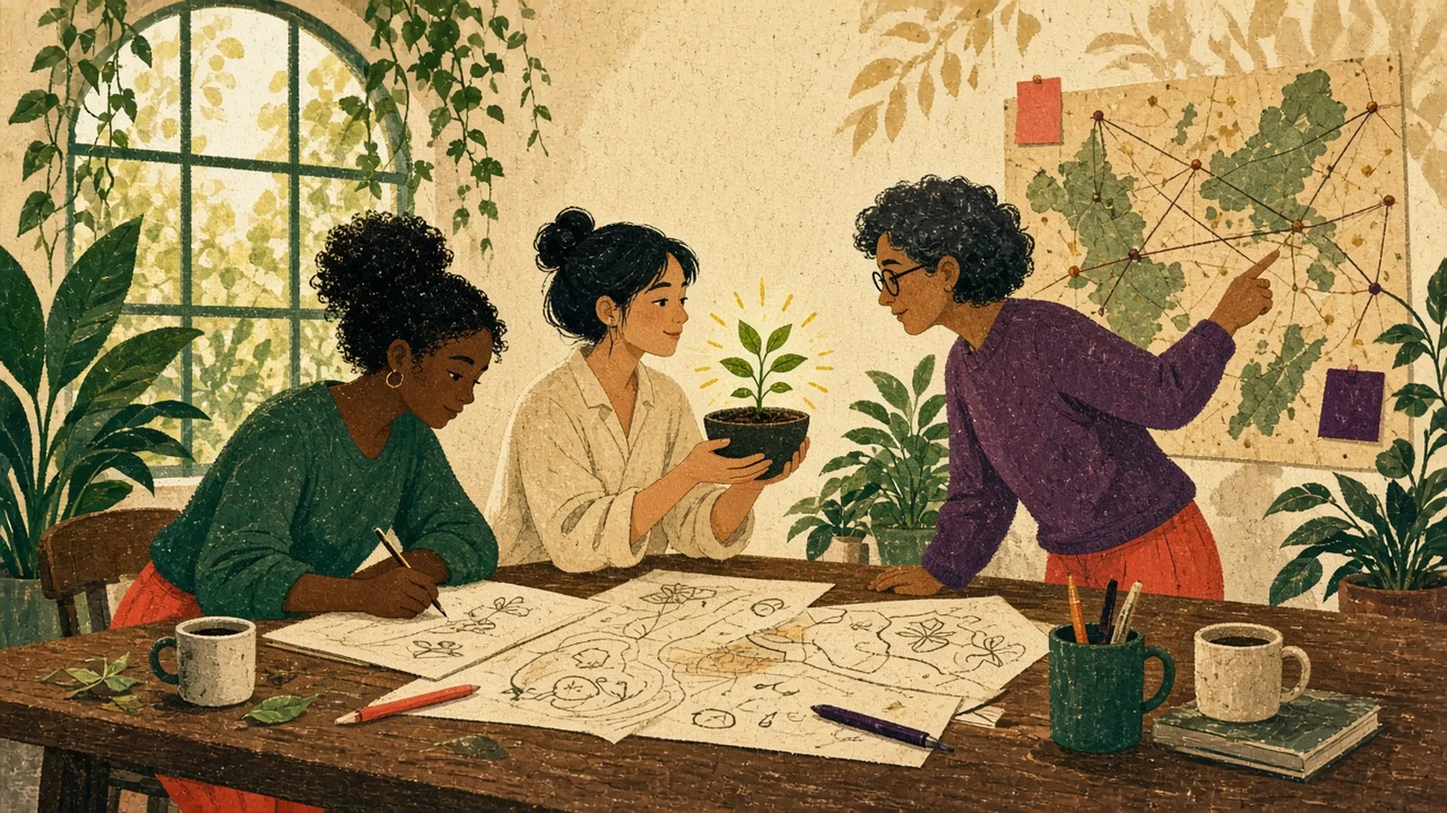
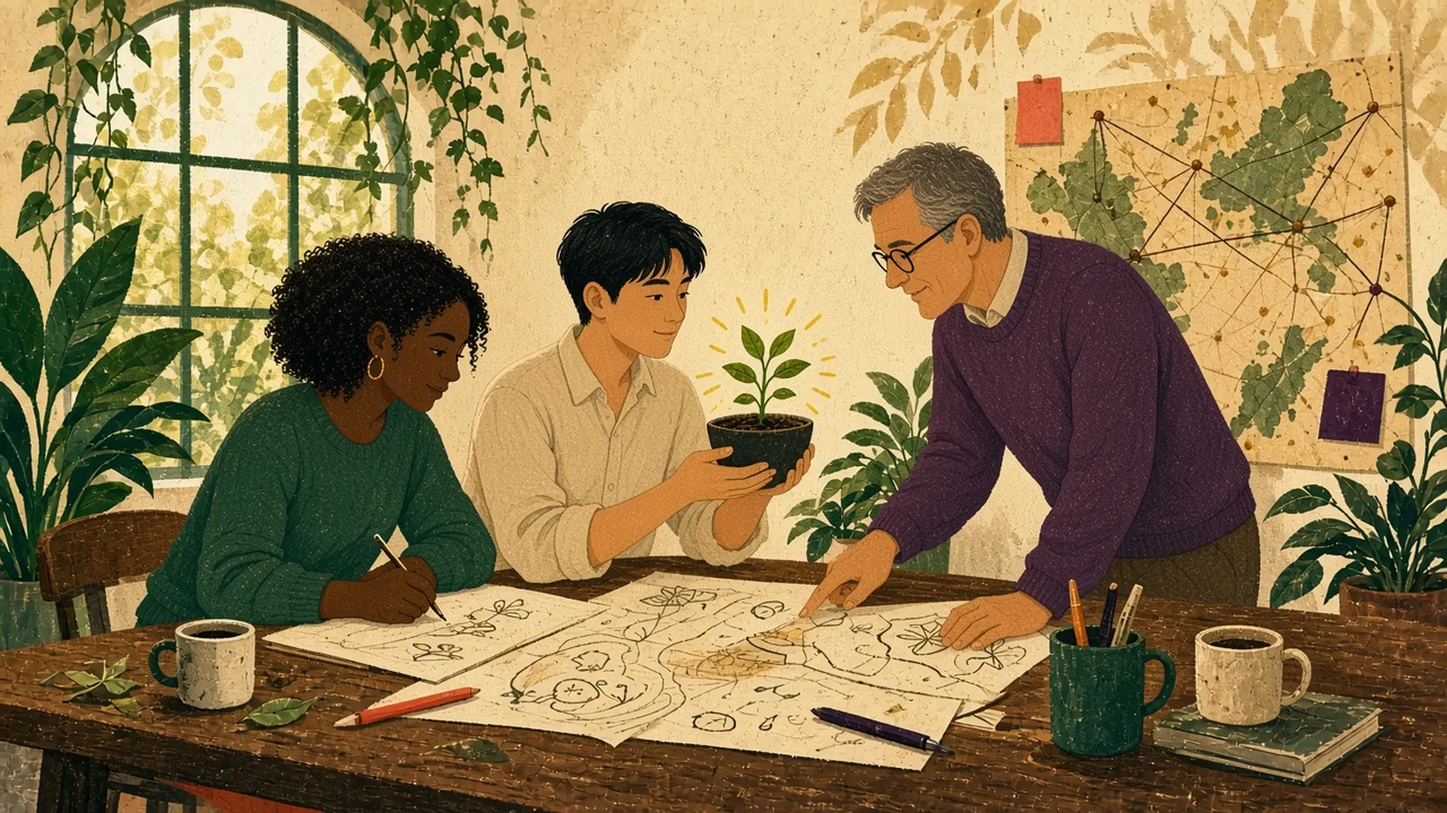
Scenes: mixed men and women in hero, team talk and founders art

diff --git a/team.html b/team.html
@@ -7,8 +7,8 @@
 <button class="burger" aria-label="Menu" aria-expanded="false"><i></i><i></i></button></header>
 <div class="overlay" role="dialog" aria-label="Menu"><img class="ologo" src="assets/brand/pfg-logo-cream.png" alt="Partners for Growth" width="720" height="233"><a href="index.html">Home</a><a href="who-we-are.html">Who we are</a><a href="growth-debt.html">What we do</a><a href="portfolio.html">Portfolio</a><a href="team.html">Team</a><a href="connect.html">Connect</a></div>
 <main><section class="phero"><div class="wrap fx"><span class="label">Our team</span><h1 class="big">Specialists embedded in tech hubs around the world.</h1><p style=max-width:52ch>We live in the ecosystems we finance, so you are matched with a PFG partner who knows your industry and your region.</p></div></section>
-<section class="pad"  data-dark=1><div class="art"><img src="assets/img/team-talk.webp" alt="Illustration: a team talking around a table in a leafy courtyard" loading="lazy"></div><div class="panel pv-plum sec"><div class="wrap"><p class="small fx" style="margin-bottom:40px;opacity:.75">31 people, listed in the order shown on PFG's team page.</p><p class="small fx" style="margin:-24px 0 40px"><button type="button" id="portraitToggle" aria-pressed="false" style="font:inherit;color:inherit;background:transparent;border:1px solid currentColor;border-radius:999px;padding:8px 16px;cursor:pointer;opacity:.85">Show photos</button></p><div class="team"><div class="person fx"><div class="portrait photo"><img src="assets/team-illustrated/andy-hudson.webp" data-photo="assets/team/andy-hudson.webp" data-ill="assets/team-illustrated/andy-hudson.webp" alt="Andy Hudson" width="360" height="360" loading="lazy"></div><div><h3>Andy Hudson</h3><p>Investment Director</p></div></div><div class="person fx"><div class="portrait photo"><img src="assets/team-illustrated/andrew-kahn.webp" data-photo="assets/team/andrew-kahn.webp" data-ill="assets/team-illustrated/andrew-kahn.webp" alt="Andrew Kahn" width="360" height="360" loading="lazy"></div><div><h3>Andrew Kahn</h3><p>CEO &amp; Co-Founder</p></div></div><div class="person fx"><div class="portrait photo"><img src="assets/team-illustrated/armineh-baghoomian.webp" data-photo="assets/team/armineh-baghoomian.webp" data-ill="assets/team-illustrated/armineh-baghoomian.webp" alt="Armineh Baghoomian" width="360" height="360" loading="lazy"></div><div><h3>Armineh Baghoomian</h3><p>Managing Director, Head of Europe, Middle East &amp; Africa, Co-Head of Global Fintech</p></div></div><div class="person fx"><div class="portrait photo"><img src="assets/team-illustrated/ben-greenspan.webp" data-photo="assets/team/ben-greenspan.webp" data-ill="assets/team-illustrated/ben-greenspan.webp" alt="Ben Greenspan" width="360" height="360" loading="lazy"></div><div><h3>Ben Greenspan</h3><p>Outside General Counsel</p></div></div><div class="person fx"><div class="portrait photo"><img src="assets/team-illustrated/bobby-maranan.webp" data-photo="assets/team/bobby-maranan.webp" data-ill="assets/team-illustrated/bobby-maranan.webp" alt="Bobby Maranan" width="360" height="360" loading="lazy"></div><div><h3>Bobby Maranan</h3><p>Data Science Engineer</p></div></div><div class="person fx"><div class="portrait photo"><img src="assets/team-illustrated/emily-alarte.webp" data-photo="assets/team/emily-alarte.webp" data-ill="assets/team-illustrated/emily-alarte.webp" alt="Emily Alarte" width="360" height="360" loading="lazy"></div><div><h3>Emily Alarte</h3><p>Portfolio Manager</p></div></div><div class="person fx"><div class="portrait photo"><img src="assets/team-illustrated/charles-macalindong.webp" data-photo="assets/team/charles-macalindong.webp" data-ill="assets/team-illustrated/charles-macalindong.webp" alt="Charles Macalindong" width="360" height="360" loading="lazy"></div><div><h3>Charles Macalindong</h3><p>Data Science Engineer</p></div></div><div class="person fx"><div class="portrait photo"><img src="assets/team-illustrated/fernan-delbo.webp" data-photo="assets/team/fernan-delbo.webp" data-ill="assets/team-illustrated/fernan-delbo.webp" alt="Fernan Delbo" width="360" height="360" loading="lazy"></div><div><h3>Fernan Delbo</h3><p>Data Science Engineer</p></div></div><div class="person fx"><div class="portrait photo"><img src="assets/team-illustrated/don-campbell.webp" data-photo="assets/team/don-campbell.webp" data-ill="assets/team-illustrated/don-campbell.webp" alt="Don Campbell" width="360" height="360" loading="lazy"></div><div><h3>Don Campbell</h3><p>Co-Founder</p></div></div><div class="person fx"><div class="portrait photo"><img src="assets/team-illustrated/finn-button.webp" data-photo="assets/team/finn-button.webp" data-ill="assets/team-illustrated/finn-button.webp" alt="Finn Button" width="360" height="360" loading="lazy"></div><div><h3>Finn Button</h3><p>Senior Investment Associate</p></div></div><div class="person fx"><div class="portrait photo"><img src="assets/team-illustrated/eaton-lee.webp" data-photo="assets/team/eaton-lee.webp" data-ill="assets/team-illustrated/eaton-lee.webp" alt="Eaton Lee" width="360" height="360" loading="lazy"></div><div><h3>Eaton Lee</h3><p>Tax Accounting Manager</p></div></div><div class="person fx"><div class="portrait photo"><img src="assets/team-illustrated/harry-trueman.webp" data-photo="assets/team/harry-trueman.webp" data-ill="assets/team-illustrated/harry-trueman.webp" alt="Harry Trueman" width="360" height="360" loading="lazy"></div><div><h3>Harry Trueman</h3><p>Investment Manager</p></div></div><div class="person fx"><div class="portrait photo"><img src="assets/team-illustrated/jason-georgatos.webp" data-photo="assets/team/jason-georgatos.webp" data-ill="assets/team-illustrated/jason-georgatos.webp" alt="Jason Georgatos" width="360" height="360" loading="lazy"></div><div><h3>Jason Georgatos</h3><p>President</p></div></div><div class="person fx"><div class="portrait photo"><img src="assets/team-illustrated/julia-figueiredo.webp" data-photo="assets/team/julia-figueiredo.webp" data-ill="assets/team-illustrated/julia-figueiredo.webp" alt="Júlia Figueiredo" width="360" height="360" loading="lazy"></div><div><h3>Júlia Figueiredo</h3><p>Director, Business Development and Investor Relations</p></div></div><div class="person fx"><div class="portrait photo"><img src="assets/team-illustrated/jett-francis-albano.webp" data-photo="assets/team/jett-francis-albano.webp" data-ill="assets/team-illustrated/jett-francis-albano.webp" alt="Jett Francis Albano" width="360" height="360" loading="lazy"></div><div><h3>Jett Francis Albano</h3><p>Data Engineering Team Lead</p></div></div><div class="person fx"><div class="portrait photo"><img src="assets/team-illustrated/kate-francisco.webp" data-photo="assets/team/kate-francisco.webp" data-ill="assets/team-illustrated/kate-francisco.webp" alt="Kate Francisco" width="360" height="360" loading="lazy"></div><div><h3>Kate Francisco</h3><p>Fund Controller</p></div></div><div class="person fx"><div class="portrait photo"><img src="assets/team-illustrated/jing-liang.webp" data-photo="assets/team/jing-liang.webp" data-ill="assets/team-illustrated/jing-liang.webp" alt="Jing Liang" width="360" height="360" loading="lazy"></div><div><h3>Jing Liang</h3><p>Assistant Fund Controller</p></div></div><div class="person fx"><div class="portrait photo"><img src="assets/team-illustrated/kathleen-francisco.webp" data-photo="assets/team/kathleen-francisco.webp" data-ill="assets/team-illustrated/kathleen-francisco.webp" alt="Kathleen Francisco" width="360" height="360" loading="lazy"></div><div><h3>Kathleen Francisco</h3><p>Junior Portfolio Manager</p></div></div><div class="person fx"><div class="portrait photo"><img src="assets/team-illustrated/john-riordan.webp" data-photo="assets/team/john-riordan.webp" data-ill="assets/team-illustrated/john-riordan.webp" alt="John Riordan" width="360" height="360" loading="lazy"></div><div><h3>John Riordan</h3><p>Managing Director, Head of Business Development and Investor Relations</p></div></div><div class="person fx"><div class="portrait photo"><img src="assets/team-illustrated/kathy-adams.webp" data-photo="assets/team/kathy-adams.webp" data-ill="assets/team-illustrated/kathy-adams.webp" alt="Kathy Adams" width="360" height="360" loading="lazy"></div><div><h3>Kathy Adams</h3><p>Director of Compliance and Operations Manager</p></div></div><div class="person fx"><div class="portrait photo"><img src="assets/team-illustrated/karthi-sepulohniam.webp" data-photo="assets/team/karthi-sepulohniam.webp" data-ill="assets/team-illustrated/karthi-sepulohniam.webp" alt="Karthi Sepulohniam" width="360" height="360" loading="lazy"></div><div><h3>Karthi Sepulohniam</h3><p>Managing Director and Head of Asia Pacific &amp; Australia</p></div></div><div class="person fx"><div class="portrait photo"><img src="assets/team-illustrated/lisa-chang.webp" data-photo="assets/team/lisa-chang.webp" data-ill="assets/team-illustrated/lisa-chang.webp" alt="Lisa Chang" width="360" height="360" loading="lazy"></div><div><h3>Lisa Chang</h3><p>Accounting Manager</p></div></div><div class="person fx"><div class="portrait photo"><img src="assets/team-illustrated/max-penel.webp" data-photo="assets/team/max-penel.webp" data-ill="assets/team-illustrated/max-penel.webp" alt="Max Penel" width="360" height="360" loading="lazy"></div><div><h3>Max Penel</h3><p>Investment Director &amp; Co-Head of Global FinTech</p></div></div><div class="person fx"><div class="portrait photo"><img src="assets/team-illustrated/melody-quina.webp" data-photo="assets/team/melody-quina.webp" data-ill="assets/team-illustrated/melody-quina.webp" alt="Melody Quina" width="360" height="360" loading="lazy"></div><div><h3>Melody Quina</h3><p>Portfolio Manager</p></div></div><div class="person fx"><div class="portrait photo"><img src="assets/team-illustrated/michael-walker.webp" data-photo="assets/team/michael-walker.webp" data-ill="assets/team-illustrated/michael-walker.webp" alt="Michael Walker" width="360" height="360" loading="lazy"></div><div><h3>Michael Walker</h3><p>Investment Analyst</p></div></div><div class="person fx"><div class="portrait photo"><img src="assets/team-illustrated/natasha-wagstaff.webp" data-photo="assets/team/natasha-wagstaff.webp" data-ill="assets/team-illustrated/natasha-wagstaff.webp" alt="Natasha Wagstaff" width="360" height="360" loading="lazy"></div><div><h3>Natasha Wagstaff</h3><p>Investor Relations Associate</p></div></div><div class="person fx"><div class="portrait photo"><img src="assets/team-illustrated/rene-shalita.webp" data-photo="assets/team/rene-shalita.webp" data-ill="assets/team-illustrated/rene-shalita.webp" alt="Rene Shalita" width="360" height="360" loading="lazy"></div><div><h3>Rene Shalita</h3><p>Portfolio Management Director</p></div></div><div class="person fx"><div class="portrait photo"><img src="assets/team-illustrated/richard-osborne.webp" data-photo="assets/team/richard-osborne.webp" data-ill="assets/team-illustrated/richard-osborne.webp" alt="Richard Osborne" width="360" height="360" loading="lazy"></div><div><h3>Richard Osborne</h3><p class="na">Title not shown on PFG site</p></div></div><div class="person fx"><div class="portrait photo"><img src="assets/team-illustrated/stephanie-hamlyn.webp" data-photo="assets/team/stephanie-hamlyn.webp" data-ill="assets/team-illustrated/stephanie-hamlyn.webp" alt="Stephanie Hamlyn" width="360" height="360" loading="lazy"></div><div><h3>Stephanie Hamlyn</h3><p>Investment Manager</p></div></div><div class="person fx"><div class="portrait photo"><img src="assets/team-illustrated/victor-ng.webp" data-photo="assets/team/victor-ng.webp" data-ill="assets/team-illustrated/victor-ng.webp" alt="Victor Ng" width="360" height="360" loading="lazy"></div><div><h3>Victor Ng</h3><p>Chief Financial Officer &amp; Chief Compliance Officer</p></div></div><div class="person fx"><div class="portrait photo"><img src="assets/team-illustrated/will-breck.webp" data-photo="assets/team/will-breck.webp" data-ill="assets/team-illustrated/will-breck.webp" alt="Will Breck" width="360" height="360" loading="lazy"></div><div><h3>Will Breck</h3><p>Senior Investment Associate</p></div></div></div></div></div></section>
-<section class="pad"  ><div class="art"><img src="assets/img/founders.webp" alt="Illustration: founders planning around a table with a seedling and a map" loading="lazy"></div><div class="panel pv-paper sec"><div class="wrap grid"><div class="c6 fx"><span class="label">Work with us</span><h2 class="sect">Talk to the right partner for your business.</h2></div><div class="c5 push fx"><p>Tell us where you are building and what you need, and we will connect you with the team member closest to your sector and region.</p><a class="arrow" href="connect.html">Connect with PFG</a></div></div></div></section></main>
+<section class="pad"  data-dark=1><div class="art"><img src="assets/img/team-talk.webp?v=mix1" alt="Illustration: a team talking around a table in a leafy courtyard" loading="lazy"></div><div class="panel pv-plum sec"><div class="wrap"><p class="small fx" style="margin-bottom:40px;opacity:.75">31 people, listed in the order shown on PFG's team page.</p><p class="small fx" style="margin:-24px 0 40px"><button type="button" id="portraitToggle" aria-pressed="false" style="font:inherit;color:inherit;background:transparent;border:1px solid currentColor;border-radius:999px;padding:8px 16px;cursor:pointer;opacity:.85">Show photos</button></p><div class="team"><div class="person fx"><div class="portrait photo"><img src="assets/team-illustrated/andy-hudson.webp" data-photo="assets/team/andy-hudson.webp" data-ill="assets/team-illustrated/andy-hudson.webp" alt="Andy Hudson" width="360" height="360" loading="lazy"></div><div><h3>Andy Hudson</h3><p>Investment Director</p></div></div><div class="person fx"><div class="portrait photo"><img src="assets/team-illustrated/andrew-kahn.webp" data-photo="assets/team/andrew-kahn.webp" data-ill="assets/team-illustrated/andrew-kahn.webp" alt="Andrew Kahn" width="360" height="360" loading="lazy"></div><div><h3>Andrew Kahn</h3><p>CEO &amp; Co-Founder</p></div></div><div class="person fx"><div class="portrait photo"><img src="assets/team-illustrated/armineh-baghoomian.webp" data-photo="assets/team/armineh-baghoomian.webp" data-ill="assets/team-illustrated/armineh-baghoomian.webp" alt="Armineh Baghoomian" width="360" height="360" loading="lazy"></div><div><h3>Armineh Baghoomian</h3><p>Managing Director, Head of Europe, Middle East &amp; Africa, Co-Head of Global Fintech</p></div></div><div class="person fx"><div class="portrait photo"><img src="assets/team-illustrated/ben-greenspan.webp" data-photo="assets/team/ben-greenspan.webp" data-ill="assets/team-illustrated/ben-greenspan.webp" alt="Ben Greenspan" width="360" height="360" loading="lazy"></div><div><h3>Ben Greenspan</h3><p>Outside General Counsel</p></div></div><div class="person fx"><div class="portrait photo"><img src="assets/team-illustrated/bobby-maranan.webp" data-photo="assets/team/bobby-maranan.webp" data-ill="assets/team-illustrated/bobby-maranan.webp" alt="Bobby Maranan" width="360" height="360" loading="lazy"></div><div><h3>Bobby Maranan</h3><p>Data Science Engineer</p></div></div><div class="person fx"><div class="portrait photo"><img src="assets/team-illustrated/emily-alarte.webp" data-photo="assets/team/emily-alarte.webp" data-ill="assets/team-illustrated/emily-alarte.webp" alt="Emily Alarte" width="360" height="360" loading="lazy"></div><div><h3>Emily Alarte</h3><p>Portfolio Manager</p></div></div><div class="person fx"><div class="portrait photo"><img src="assets/team-illustrated/charles-macalindong.webp" data-photo="assets/team/charles-macalindong.webp" data-ill="assets/team-illustrated/charles-macalindong.webp" alt="Charles Macalindong" width="360" height="360" loading="lazy"></div><div><h3>Charles Macalindong</h3><p>Data Science Engineer</p></div></div><div class="person fx"><div class="portrait photo"><img src="assets/team-illustrated/fernan-delbo.webp" data-photo="assets/team/fernan-delbo.webp" data-ill="assets/team-illustrated/fernan-delbo.webp" alt="Fernan Delbo" width="360" height="360" loading="lazy"></div><div><h3>Fernan Delbo</h3><p>Data Science Engineer</p></div></div><div class="person fx"><div class="portrait photo"><img src="assets/team-illustrated/don-campbell.webp" data-photo="assets/team/don-campbell.webp" data-ill="assets/team-illustrated/don-campbell.webp" alt="Don Campbell" width="360" height="360" loading="lazy"></div><div><h3>Don Campbell</h3><p>Co-Founder</p></div></div><div class="person fx"><div class="portrait photo"><img src="assets/team-illustrated/finn-button.webp" data-photo="assets/team/finn-button.webp" data-ill="assets/team-illustrated/finn-button.webp" alt="Finn Button" width="360" height="360" loading="lazy"></div><div><h3>Finn Button</h3><p>Senior Investment Associate</p></div></div><div class="person fx"><div class="portrait photo"><img src="assets/team-illustrated/eaton-lee.webp" data-photo="assets/team/eaton-lee.webp" data-ill="assets/team-illustrated/eaton-lee.webp" alt="Eaton Lee" width="360" height="360" loading="lazy"></div><div><h3>Eaton Lee</h3><p>Tax Accounting Manager</p></div></div><div class="person fx"><div class="portrait photo"><img src="assets/team-illustrated/harry-trueman.webp" data-photo="assets/team/harry-trueman.webp" data-ill="assets/team-illustrated/harry-trueman.webp" alt="Harry Trueman" width="360" height="360" loading="lazy"></div><div><h3>Harry Trueman</h3><p>Investment Manager</p></div></div><div class="person fx"><div class="portrait photo"><img src="assets/team-illustrated/jason-georgatos.webp" data-photo="assets/team/jason-georgatos.webp" data-ill="assets/team-illustrated/jason-georgatos.webp" alt="Jason Georgatos" width="360" height="360" loading="lazy"></div><div><h3>Jason Georgatos</h3><p>President</p></div></div><div class="person fx"><div class="portrait photo"><img src="assets/team-illustrated/julia-figueiredo.webp" data-photo="assets/team/julia-figueiredo.webp" data-ill="assets/team-illustrated/julia-figueiredo.webp" alt="Júlia Figueiredo" width="360" height="360" loading="lazy"></div><div><h3>Júlia Figueiredo</h3><p>Director, Business Development and Investor Relations</p></div></div><div class="person fx"><div class="portrait photo"><img src="assets/team-illustrated/jett-francis-albano.webp" data-photo="assets/team/jett-francis-albano.webp" data-ill="assets/team-illustrated/jett-francis-albano.webp" alt="Jett Francis Albano" width="360" height="360" loading="lazy"></div><div><h3>Jett Francis Albano</h3><p>Data Engineering Team Lead</p></div></div><div class="person fx"><div class="portrait photo"><img src="assets/team-illustrated/kate-francisco.webp" data-photo="assets/team/kate-francisco.webp" data-ill="assets/team-illustrated/kate-francisco.webp" alt="Kate Francisco" width="360" height="360" loading="lazy"></div><div><h3>Kate Francisco</h3><p>Fund Controller</p></div></div><div class="person fx"><div class="portrait photo"><img src="assets/team-illustrated/jing-liang.webp" data-photo="assets/team/jing-liang.webp" data-ill="assets/team-illustrated/jing-liang.webp" alt="Jing Liang" width="360" height="360" loading="lazy"></div><div><h3>Jing Liang</h3><p>Assistant Fund Controller</p></div></div><div class="person fx"><div class="portrait photo"><img src="assets/team-illustrated/kathleen-francisco.webp" data-photo="assets/team/kathleen-francisco.webp" data-ill="assets/team-illustrated/kathleen-francisco.webp" alt="Kathleen Francisco" width="360" height="360" loading="lazy"></div><div><h3>Kathleen Francisco</h3><p>Junior Portfolio Manager</p></div></div><div class="person fx"><div class="portrait photo"><img src="assets/team-illustrated/john-riordan.webp" data-photo="assets/team/john-riordan.webp" data-ill="assets/team-illustrated/john-riordan.webp" alt="John Riordan" width="360" height="360" loading="lazy"></div><div><h3>John Riordan</h3><p>Managing Director, Head of Business Development and Investor Relations</p></div></div><div class="person fx"><div class="portrait photo"><img src="assets/team-illustrated/kathy-adams.webp" data-photo="assets/team/kathy-adams.webp" data-ill="assets/team-illustrated/kathy-adams.webp" alt="Kathy Adams" width="360" height="360" loading="lazy"></div><div><h3>Kathy Adams</h3><p>Director of Compliance and Operations Manager</p></div></div><div class="person fx"><div class="portrait photo"><img src="assets/team-illustrated/karthi-sepulohniam.webp" data-photo="assets/team/karthi-sepulohniam.webp" data-ill="assets/team-illustrated/karthi-sepulohniam.webp" alt="Karthi Sepulohniam" width="360" height="360" loading="lazy"></div><div><h3>Karthi Sepulohniam</h3><p>Managing Director and Head of Asia Pacific &amp; Australia</p></div></div><div class="person fx"><div class="portrait photo"><img src="assets/team-illustrated/lisa-chang.webp" data-photo="assets/team/lisa-chang.webp" data-ill="assets/team-illustrated/lisa-chang.webp" alt="Lisa Chang" width="360" height="360" loading="lazy"></div><div><h3>Lisa Chang</h3><p>Accounting Manager</p></div></div><div class="person fx"><div class="portrait photo"><img src="assets/team-illustrated/max-penel.webp" data-photo="assets/team/max-penel.webp" data-ill="assets/team-illustrated/max-penel.webp" alt="Max Penel" width="360" height="360" loading="lazy"></div><div><h3>Max Penel</h3><p>Investment Director &amp; Co-Head of Global FinTech</p></div></div><div class="person fx"><div class="portrait photo"><img src="assets/team-illustrated/melody-quina.webp" data-photo="assets/team/melody-quina.webp" data-ill="assets/team-illustrated/melody-quina.webp" alt="Melody Quina" width="360" height="360" loading="lazy"></div><div><h3>Melody Quina</h3><p>Portfolio Manager</p></div></div><div class="person fx"><div class="portrait photo"><img src="assets/team-illustrated/michael-walker.webp" data-photo="assets/team/michael-walker.webp" data-ill="assets/team-illustrated/michael-walker.webp" alt="Michael Walker" width="360" height="360" loading="lazy"></div><div><h3>Michael Walker</h3><p>Investment Analyst</p></div></div><div class="person fx"><div class="portrait photo"><img src="assets/team-illustrated/natasha-wagstaff.webp" data-photo="assets/team/natasha-wagstaff.webp" data-ill="assets/team-illustrated/natasha-wagstaff.webp" alt="Natasha Wagstaff" width="360" height="360" loading="lazy"></div><div><h3>Natasha Wagstaff</h3><p>Investor Relations Associate</p></div></div><div class="person fx"><div class="portrait photo"><img src="assets/team-illustrated/rene-shalita.webp" data-photo="assets/team/rene-shalita.webp" data-ill="assets/team-illustrated/rene-shalita.webp" alt="Rene Shalita" width="360" height="360" loading="lazy"></div><div><h3>Rene Shalita</h3><p>Portfolio Management Director</p></div></div><div class="person fx"><div class="portrait photo"><img src="assets/team-illustrated/richard-osborne.webp" data-photo="assets/team/richard-osborne.webp" data-ill="assets/team-illustrated/richard-osborne.webp" alt="Richard Osborne" width="360" height="360" loading="lazy"></div><div><h3>Richard Osborne</h3><p class="na">Title not shown on PFG site</p></div></div><div class="person fx"><div class="portrait photo"><img src="assets/team-illustrated/stephanie-hamlyn.webp" data-photo="assets/team/stephanie-hamlyn.webp" data-ill="assets/team-illustrated/stephanie-hamlyn.webp" alt="Stephanie Hamlyn" width="360" height="360" loading="lazy"></div><div><h3>Stephanie Hamlyn</h3><p>Investment Manager</p></div></div><div class="person fx"><div class="portrait photo"><img src="assets/team-illustrated/victor-ng.webp" data-photo="assets/team/victor-ng.webp" data-ill="assets/team-illustrated/victor-ng.webp" alt="Victor Ng" width="360" height="360" loading="lazy"></div><div><h3>Victor Ng</h3><p>Chief Financial Officer &amp; Chief Compliance Officer</p></div></div><div class="person fx"><div class="portrait photo"><img src="assets/team-illustrated/will-breck.webp" data-photo="assets/team/will-breck.webp" data-ill="assets/team-illustrated/will-breck.webp" alt="Will Breck" width="360" height="360" loading="lazy"></div><div><h3>Will Breck</h3><p>Senior Investment Associate</p></div></div></div></div></div></section>
+<section class="pad"  ><div class="art"><img src="assets/img/founders.webp?v=mix1" alt="Illustration: founders planning around a table with a seedling and a map" loading="lazy"></div><div class="panel pv-paper sec"><div class="wrap grid"><div class="c6 fx"><span class="label">Work with us</span><h2 class="sect">Talk to the right partner for your business.</h2></div><div class="c5 push fx"><p>Tell us where you are building and what you need, and we will connect you with the team member closest to your sector and region.</p><a class="arrow" href="connect.html">Connect with PFG</a></div></div></div></section></main>
 <footer class="ftr"><div class="wrap"><div class="grid"><div class="c6"><a class="brand" href="index.html" aria-label="Partners for Growth home"><img src="assets/brand/pfg-logo-green.png" alt="Partners for Growth" width="720" height="233"></a></div>
 <div class="c6"><nav aria-label="Footer"><a href="index.html">Home</a><a href="who-we-are.html">Who we are</a><a href="growth-debt.html">What we do</a><a href="portfolio.html">Portfolio</a><a href="team.html">Team</a><a href="connect.html">Connect</a><a href="characters.html">Character options</a></nav></div></div>
 <p class="legal">Internal design mockup for private review only. Not affiliated with or approved by Partners for Growth. Facts are taken from PFG's public website (November 2026); copy is paraphrased, the PFG logo is recoloured, team photos come from PFG's public site and illustrations are original. Draft only.</p></div></footer>

diff --git a/who-we-are.html b/who-we-are.html
@@ -10,11 +10,11 @@
 <section class="sec paper"><div class="wrap grid"><div class="c6 fx"><span class="label">About us</span><h2 class="sect">Thirty-five years alongside the entrepreneurs and institutions behind global tech.</h2></div>
 <div class="c5 push fx"><p>The team behind PFG has spent 35 years financing technology and innovation. We go towards complexity rather than away from it, and we work across geographies to create capital that helps our partners grow.</p>
 <p>PFG was founded in 2004 by Andrew Kahn and Don Campbell, who had previously worked together at Hambrecht &amp; Quist Guaranty Finance.</p><a class="arrow" href="portfolio.html">See the portfolio</a></div></div></section>
-<section class="pad"  data-dark=1><div class="art"><img src="assets/img/founders.webp" alt="Illustration: founders planning around a table with a seedling and a map" loading="lazy"></div><div class="panel pv-plum sec"><div class="wrap grid"><div class="c6 fx"><span class="label">Our belief</span><h2 class="sect">Innovation happens where different perspectives meet a hard problem.</h2></div>
+<section class="pad"  data-dark=1><div class="art"><img src="assets/img/founders.webp?v=mix1" alt="Illustration: founders planning around a table with a seedling and a map" loading="lazy"></div><div class="panel pv-plum sec"><div class="wrap grid"><div class="c6 fx"><span class="label">Our belief</span><h2 class="sect">Innovation happens where different perspectives meet a hard problem.</h2></div>
 <div class="c5 push fx"><p>That belief shaped an inclusive, international team, and it guides how we unlock growth with entrepreneurs, institutions and venture partners.</p><a class="arrow" href="team.html">Meet the team</a></div></div></div></section>
 <section class="sec coral" data-dark="1"><div class="wrap grid"><div class="c6 fx"><span class="label">Our story</span><h2 class="sect">As technology has changed, so have we.</h2></div>
 <div class="c5 push fx"><p>Over four decades the team has kept pace with each new wave of innovators, matching them with financing that is just as inventive. The full timeline lives on PFG's site and was not rebuilt for this mockup.</p></div></div></section>
-<section class="pad"  data-dark=1><div class="art"><img src="assets/img/team-talk.webp" alt="Illustration: a team talking around a table in a leafy courtyard" loading="lazy"></div><div class="panel pv-sage sec"><div class="wrap"><div class="fx"><span class="label">Strategic partnerships</span><h2 class="sect">The partners we lend alongside.</h2></div><div class="three">
+<section class="pad"  data-dark=1><div class="art"><img src="assets/img/team-talk.webp?v=mix1" alt="Illustration: a team talking around a table in a leafy courtyard" loading="lazy"></div><div class="panel pv-sage sec"><div class="wrap"><div class="fx"><span class="label">Strategic partnerships</span><h2 class="sect">The partners we lend alongside.</h2></div><div class="three">
 <div class="fx"><span class="label">30+ year partner</span><h3 class="med">SVB</h3><p>An official strategic partnership since the late 1980s. PFG and SVB have lent side by side across the US and Canada, Europe, the Middle East, Asia and Latin America, and co-manage a Latin America Growth Lending Fund.</p></div>
 <div class="fx"><span class="label">Co-investment programme</span><h3 class="med">IFC</h3><p>A strategic co-investment program with IFC, part of the World Bank Group, widens PFG's sourcing, adds diligence depth and extends its reach into fintech and tech-enabled businesses in growth markets.</p></div>
 <div class="fx"><span class="label">10+ year partner</span><h3 class="med">IDB Invest</h3><p>PFG leads a joint venture with IDB Invest, delivering growth-stage credit to Latin American tech companies through the Latin America Growth Lending Fund, picking up where early venture funding leaves off.</p></div>

diff --git a/index.html b/index.html
@@ -6,7 +6,7 @@
 <header class="hdr"><a class="brand" href="index.html" aria-label="Partners for Growth home"><img src="assets/brand/pfg-logo-cream.png" alt="Partners for Growth" width="720" height="233"></a><nav class="nav" aria-label="Main"><a href="who-we-are.html">Who we are</a><a href="growth-debt.html">What we do</a><a href="portfolio.html">Portfolio</a><a href="team.html">Team</a><a href="connect.html">Connect</a></nav>
 <button class="burger" aria-label="Menu" aria-expanded="false"><i></i><i></i></button></header>
 <div class="overlay" role="dialog" aria-label="Menu"><img class="ologo" src="assets/brand/pfg-logo-cream.png" alt="Partners for Growth" width="720" height="233"><a href="index.html">Home</a><a href="who-we-are.html">Who we are</a><a href="growth-debt.html">What we do</a><a href="portfolio.html">Portfolio</a><a href="team.html">Team</a><a href="connect.html">Connect</a></div><nav class="rail" aria-label="Sections"><a href="#who"><span>Who we are</span><i></i></a><a href="#numbers"><span>Numbers</span><i></i></a><a href="#what"><span>What we do</span><i></i></a><a href="#partners"><span>Partners</span><i></i></a><a href="#footprint"><span>Footprint</span><i></i></a></nav>
-<main><section class="hero"><img class="scene" src="assets/img/hero-orchard.webp" alt="Illustration: people tending young trees on terraced hills at dawn"><div class="shade"></div>
+<main><section class="hero"><img class="scene" src="assets/img/hero-orchard.webp?v=mix1" alt="Illustration: people tending young trees on terraced hills at dawn"><div class="shade"></div>
 <div class="wrap fx"><h1 class="big">We go where the entrepreneurs are</h1><p>Tailored debt for innovative companies, wherever in the world they are building.</p></div></section>
 <section class="sec paper" id="who"><div class="wrap grid">
 <div class="c6 fx"><span class="label">Who we are</span><h2 class="sect">For 35 years, the people behind PFG have worked at the centre of tech and innovation ecosystems around the world.</h2>
